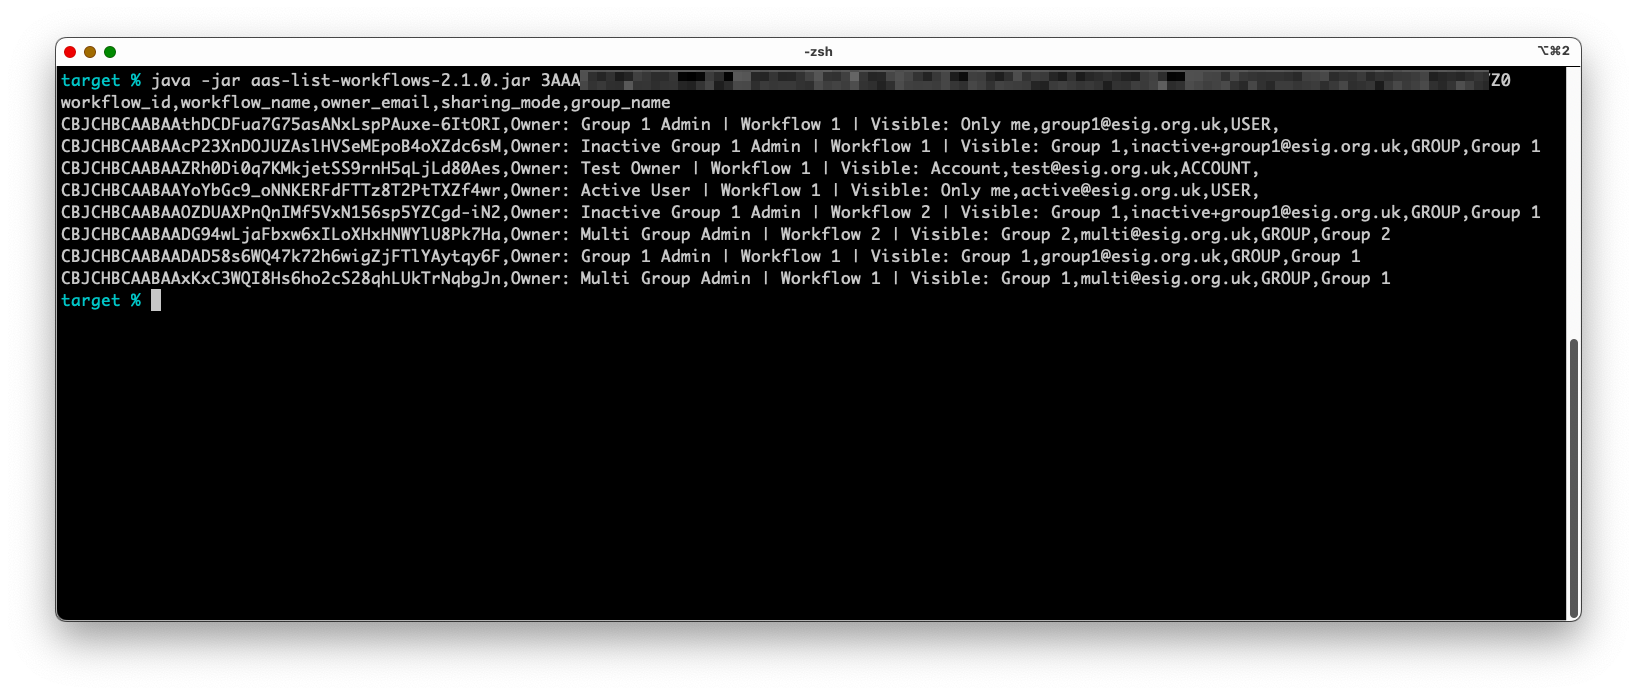
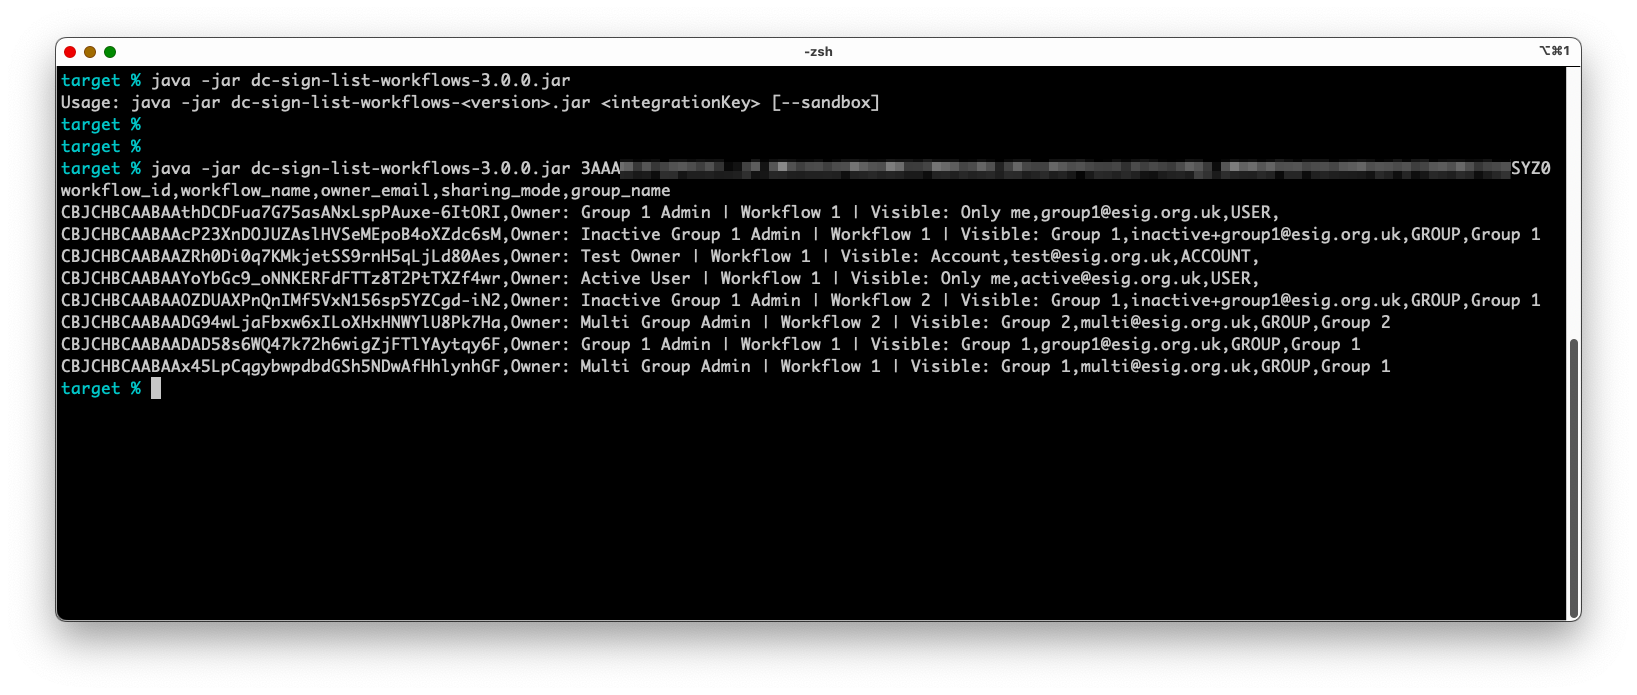
Rename for dc-sign- prefix

Changed region(s): [[0.0312, 0.0906, 0.9658, 0.5741], [0.9346, 0.0604, 0.9658, 0.0906]]

diff --git a/src/main/java/uk/org/esig/adobe/workflows/ListWorkflows.java b/src/main/java/uk/org/esig/adobe/workflows/ListWorkflows.java
@@ -1,3 +1,23 @@
+/************************************************************************
+ *
+ * ADOBE CONFIDENTIAL
+ * ___________________
+ *
+ * Copyright 2023 Adobe
+ * All Rights Reserved.
+ *
+ * NOTICE: All information contained herein is, and remains
+ * the property of Adobe and its suppliers, if any. The intellectual
+ * and technical concepts contained herein are proprietary to Adobe
+ * and its suppliers and are protected by all applicable intellectual
+ * property laws, including trade secret and copyright laws.
+ * Dissemination of this information or reproduction of this material
+ * is strictly forbidden unless prior written permission is obtained
+ * from Adobe.
+
+ *************************************************************************
+ */
+
 package uk.org.esig.adobe.workflows;
 
 import io.swagger.client.api.BaseUrisApi;
@@ -17,6 +37,7 @@ import io.swagger.client.model.workflows.OriginatorWorkflows;
 import io.swagger.client.model.workflows.UserWorkflow;
 import org.apache.commons.csv.CSVFormat;
 
+import java.nio.charset.CharsetEncoder;
 import java.nio.charset.StandardCharsets;
 import java.util.HashMap;
 import java.util.List;
@@ -26,13 +47,14 @@ public class ListWorkflows {
     private static final String API_PATH = "api/rest/v6";
     private static final String API_URL = "https://api.adobesign.com/";
     private static final String API_USER_PREFIX = "email:";
+    private static final CharsetEncoder ASCII_ENCODER = StandardCharsets.US_ASCII.newEncoder();
     private static final String BEARER = "Bearer ";
     private static final int CAPACITY = 20000;
     private static final int PAGE_SIZE = 1000;
     private static final String SANDBOX = "--sandbox";
     private static final String SANDBOX_API_URL = "https://api.adobesignsandbox.com/";
     private static final int TIMEOUT = 300000;
-    private static final String USAGE = "Usage: java -jar aas-list-workflows-<version>.jar <integrationKey> [--sandbox]";
+    private static final String USAGE = "Usage: java -jar dc-sign-list-workflows-<version>.jar <integrationKey> [--sandbox]";
 
     public static void main(String[] args) {
         if (args.length < 1 || args.length > 2) {
@@ -116,7 +138,7 @@ public class ListWorkflows {
                 DetailedUserInfo detail = usersApi.getUserDetail(accessToken, userInfo.getId(), null);
                 if (detail != null && detail.getStatus().equals(DetailedUserInfo.StatusEnum.ACTIVE)) {
                     String email = userInfo.getEmail();
-                    if (StandardCharsets.US_ASCII.newEncoder().canEncode(email)) {
+                    if (ASCII_ENCODER.canEncode(email)) {
                         String apiUser = API_USER_PREFIX + email;
                         OriginatorWorkflows workflows = workflowsApi.getWorkflows(accessToken,
                                                                                   apiUser,

diff --git a/src/main/java/io/swagger/client/model/workflows/OriginatorWorkflows.java b/src/main/java/io/swagger/client/model/workflows/OriginatorWorkflows.java
@@ -1,3 +1,23 @@
+/************************************************************************
+ *
+ * ADOBE CONFIDENTIAL
+ * ___________________
+ *
+ * Copyright 2023 Adobe
+ * All Rights Reserved.
+ *
+ * NOTICE: All information contained herein is, and remains
+ * the property of Adobe and its suppliers, if any. The intellectual
+ * and technical concepts contained herein are proprietary to Adobe
+ * and its suppliers and are protected by all applicable intellectual
+ * property laws, including trade secret and copyright laws.
+ * Dissemination of this information or reproduction of this material
+ * is strictly forbidden unless prior written permission is obtained
+ * from Adobe.
+
+ *************************************************************************
+ */
+
 package io.swagger.client.model.workflows;
 
 import com.google.gson.annotations.SerializedName;
@@ -59,7 +79,6 @@ public class OriginatorWorkflows {
     public String toString() {
         StringBuilder sb = new StringBuilder();
         sb.append("class OriginatorWorkflows {\n");
-
         sb.append("    userWorkflowList: ").append(toIndentedString(originatorWorkflowList)).append("\n");
         sb.append("}");
         return sb.toString();

diff --git a/src/main/java/io/swagger/client/model/workflows/OriginatorWorkflow.java b/src/main/java/io/swagger/client/model/workflows/OriginatorWorkflow.java
@@ -1,3 +1,23 @@
+/************************************************************************
+ *
+ * ADOBE CONFIDENTIAL
+ * ___________________
+ *
+ * Copyright 2023 Adobe
+ * All Rights Reserved.
+ *
+ * NOTICE: All information contained herein is, and remains
+ * the property of Adobe and its suppliers, if any. The intellectual
+ * and technical concepts contained herein are proprietary to Adobe
+ * and its suppliers and are protected by all applicable intellectual
+ * property laws, including trade secret and copyright laws.
+ * Dissemination of this information or reproduction of this material
+ * is strictly forbidden unless prior written permission is obtained
+ * from Adobe.
+
+ *************************************************************************
+ */
+
 package io.swagger.client.model.workflows;
 
 import com.google.gson.annotations.SerializedName;

diff --git a/src/main/java/io/swagger/client/api/OriginatorWorkflowsApi.java b/src/main/java/io/swagger/client/api/OriginatorWorkflowsApi.java
@@ -1,3 +1,23 @@
+/************************************************************************
+ *
+ * ADOBE CONFIDENTIAL
+ * ___________________
+ *
+ * Copyright 2023 Adobe
+ * All Rights Reserved.
+ *
+ * NOTICE: All information contained herein is, and remains
+ * the property of Adobe and its suppliers, if any. The intellectual
+ * and technical concepts contained herein are proprietary to Adobe
+ * and its suppliers and are protected by all applicable intellectual
+ * property laws, including trade secret and copyright laws.
+ * Dissemination of this information or reproduction of this material
+ * is strictly forbidden unless prior written permission is obtained
+ * from Adobe.
+
+ *************************************************************************
+ */
+
 package io.swagger.client.api;
 
 import com.google.gson.reflect.TypeToken;

diff --git a/CODE_OF_CONDUCT.md b/CODE_OF_CONDUCT.md
@@ -1,0 +1,74 @@
+# Adobe Code of Conduct
+
+## Our Pledge
+
+In the interest of fostering an open and welcoming environment, we as
+contributors and maintainers pledge to making participation in our project and
+our community a harassment-free experience for everyone, regardless of age, body
+size, disability, ethnicity, gender identity and expression, level of experience,
+nationality, personal appearance, race, religion, or sexual identity and
+orientation.
+
+## Our Standards
+
+Examples of behavior that contributes to creating a positive environment
+include:
+
+* Using welcoming and inclusive language.
+* Being respectful of differing viewpoints and experiences.
+* Gracefully accepting constructive criticism.
+* Focusing on what is best for the community.
+* Showing empathy towards other community members.
+
+Examples of unacceptable behavior by participants include:
+
+* The use of sexualized language or imagery and unwelcome sexual attention or
+advances.
+* Trolling, insulting/derogatory comments, and personal or political attacks.
+* Public or private harassment.
+* Publishing others' private information, such as a physical or electronic
+  address, without explicit permission.
+* Other conduct which could reasonably be considered inappropriate in a
+  professional setting.
+
+## Our Responsibilities
+
+Project maintainers are responsible for clarifying the standards of acceptable
+behavior and are expected to take appropriate and fair corrective action in
+response to any instances of unacceptable behavior.
+
+Project maintainers have the right and responsibility to remove, edit, or
+reject comments, commits, code, wiki edits, issues, and other contributions
+that are not aligned to this Code of Conduct, or to ban temporarily or
+permanently any contributor for other behaviors that they deem inappropriate,
+threatening, offensive, or harmful.
+
+## Scope
+
+This Code of Conduct applies both within project spaces and in public spaces
+when an individual is representing the project or its community. Examples of
+representing a project or community include using an official project e-mail
+address, posting via an official social media account, or acting as an appointed
+representative at an online or offline event. Representation of a project may be
+further defined and clarified by project maintainers.
+
+## Enforcement
+
+Instances of abusive, harassing, or otherwise unacceptable behavior may be
+reported by contacting the project team at Grp-opensourceoffice@adobe.com. All
+complaints will be reviewed and investigated and will result in a response that
+is deemed necessary and appropriate to the circumstances. The project team is
+obligated to maintain confidentiality with regard to the reporter of an incident.
+Further details of specific enforcement policies may be posted separately.
+
+Project maintainers who do not follow or enforce the Code of Conduct in good
+faith may face temporary or permanent repercussions as determined by other
+members of the project's leadership.
+
+## Attribution
+
+This Code of Conduct is adapted from the [Contributor Covenant][homepage], version 1.4,
+available at [https://contributor-covenant.org/version/1/4][version].
+
+[homepage]: https://contributor-covenant.org
+[version]: https://contributor-covenant.org/version/1/4/

diff --git a/README.md b/README.md
@@ -1,4 +1,4 @@
-# aas-list-workflows
+# dc-sign-list-workflows
 
 ## Introduction
 
@@ -6,7 +6,7 @@ This Java-based command-line tool provides a simple method to list all the workf
 
 ## Set-Up Instructions
 
-+ Download the latest release of the `aas-list-workflows-<version>.jar` from the [Releases](https://git.corp.adobe.com/sign-acs/aas-list-workflows/releases) page
++ Download the latest release of the `dc-sign-list-workflows-<version>.jar` from the [Releases](https://git.corp.adobe.com/sign-acs/dc-sign-list-workflows/releases) page
 + [Download Java 1.8](https://www.oracle.com/java/technologies/javase/javase8-archive-downloads.html), if you don't already have it installed on your machine
 + [IP Addresses to add to your allow list](https://helpx.adobe.com/sign/system-requirements.html#IPs), if needed
 
@@ -31,7 +31,7 @@ To do this, follow the steps below:
   + `[--sandbox]` optional flag if the integration key is for a Sandbox account
 
 ```sh
-java -jar aas-list-workflows-<version>.jar <integrationKey> [--sandbox]
+java -jar dc-sign-list-workflows-<version>.jar <integrationKey> [--sandbox]
 ```
 
 Assuming you have specified the required parameters correctly, then you should see output similar to that below:
@@ -41,7 +41,7 @@ Assuming you have specified the required parameters correctly, then you should s
 Note that the output is deliberately concise to support redirecting output to a CSV file which can then be opened in programs such as Microsoft Excel.
 
 ```sh
-java -jar aas-list-workflows-<version>.jar <integrationKey> > output.csv
+java -jar dc-sign-list-workflows-<version>.jar <integrationKey> > output.csv
 ```
 
 ## Building
@@ -65,3 +65,9 @@ Once this has completed, clone this repository and build the package by issuing:
 cd <location-of-cloned-tool-repo>
 mvn clean package
 ```
+
+## Contributing
+Contributions are welcomed! Read the [Contributing Guide](CODE_OF_CONDUCT.md) for more information.
+
+## Licensing
+This project is licensed under the Apache V2 License. See [LICENSE](LICENSE) for more information.
